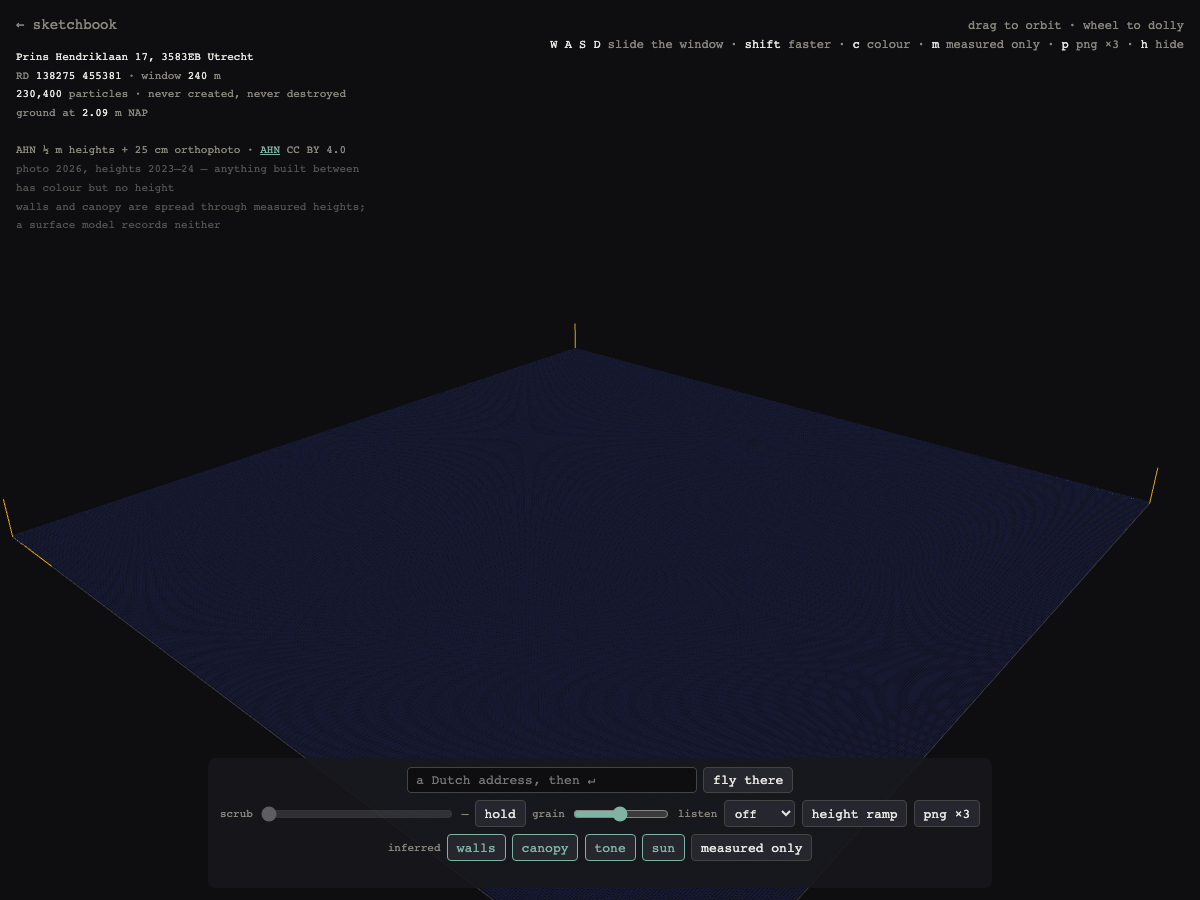
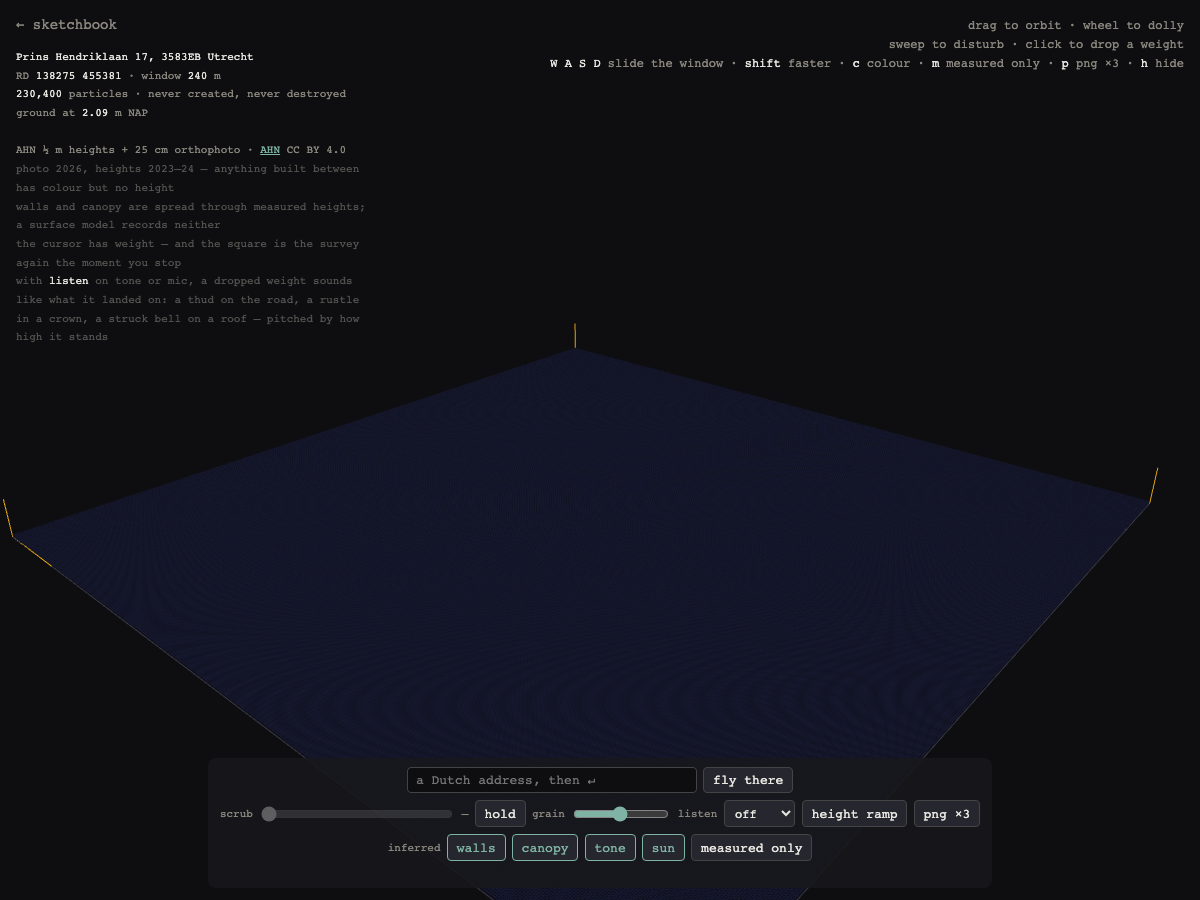
feat(elsewhere): give the music a wavelength, and the particles a face
The audio term's spatial argument was hash1(w) — every particle handed
its own random share of the band. Neighbours knowing nothing about each
other is a texture and not a motion: however loud it got, the square
fizzed uniformly and nothing ever travelled across it. It now rides
three waves instead. Rings out of the middle under the sub and the low,
and two crossing trains at shorter wavelengths over the canopy and the
roofline, so a beat arrives somewhere and moves.

The waves are anchored to the frame where touch anchors to the ground,
and the difference is the point: a furrow you cut belongs to the place
and should slide out of view as you drive away from it, but a ripple
answering the music belongs to the picture and stays centred in it.

Crests brighten. That is what makes a wave read as a wave rather than as
the same picture at a different height — the ridge outlives being seen
end-on, which from a camera this low is most of the time.

Sprites are square now. A particle stands for a cell of a half-metre
grid, and a tile tessellates where a disc leaves a gap at every corner,
so the roofs close up and start reading as surfaces. Shaded by where the
fragment sits inside its own sprite — bright along the top, falling away
down the face, border darkened so neighbours separate — which is a fake
extrusion and deliberately one: the real thing is 230,400 boxes and 2.8
million triangles for a sketch whose whole claim is that it has no
[…]

diff --git a/sketches/2026-08-elsewhere/shaders.js b/sketches/2026-08-elsewhere/shaders.js
@@ -76,13 +76,14 @@ int findLayer(vec4 tiles[13], vec2 w, out vec2 uv, out float span) {
   return best;
 }
 
-struct Sample { float y; float hag; vec3 rgb; vec3 n; float born; float found; };
+struct Sample { float y; float hag; vec3 rgb; vec3 n; float born; float found; float lift; };
 
 Sample lookup(vec4 tiles[13], vec2 w, bool useBorn, float toneLo, float toneGain) {
   Sample s;
   vec2 uv; float span;
   int layer = findLayer(tiles, w, uv, span);
   s.found = layer < 0 ? 0.0 : 1.0;
+  s.lift = 0.0;
   if (layer < 0) { s.y = 0.0; s.hag = 0.0; s.rgb = vec3(0.0); s.n = vec3(0.0, 1.0, 0.0); s.born = -1e4; return s; }
 
   vec2 texel = vec2(1.0) / vec2(textureSize(uHeight, 0).xy);
@@ -138,8 +139,44 @@ Sample lookup(vec4 tiles[13], vec2 w, bool useBorn, float toneLo, float toneGain
   float ground = 1.0 - smoothstep(0.2, 0.8, s.hag);
   float canopy = step(${CANOPY_HAG.toFixed(2)}, s.hag) * smoothstep(0.25, 0.5, rough);
   float built = smoothstep(1.0, 1.6, drop);
-  s.y += uAudio * 1.6 * (0.4 + hash1(w * 0.61))
-       * (uBands.x * ground + uBands.y * 0.35 + uBands.z * canopy + uBands.w * built);
+  //
+  // The spatial argument is the whole difference between a texture and a
+  // motion. This used to be hash1(w) alone — every particle given its own
+  // random share of the band, which means neighbours know nothing about each
+  // other and the square fizzes uniformly however loud it gets. Waves make
+  // neighbours agree, so something travels: rings out of the middle under the
+  // sub, and two crossing trains at shorter wavelengths over the canopy and
+  // the roofline. The grain stays, at a quarter of its old weight, because
+  // this is a point cloud and a perfectly smooth sheet is a different sketch.
+  //
+  // Anchored to the frame rather than to the ground — the opposite of what
+  // touch does, and on purpose. A furrow you cut belongs to the place and
+  // should slide out of view as you drive away from it; a ripple answering the
+  // music belongs to the picture and should stay centred in it.
+  vec2 rel = w - uCentre;
+  float wSub  = sin(length(rel) * 0.075 - uTime * 1.9);
+  float wMid  = sin(dot(rel, vec2(0.052, 0.031)) - uTime * 2.7);
+  float wHigh = sin(dot(rel, vec2(-0.090, 0.140)) - uTime * 4.3);
+  // 0.25 + 0.75·sin runs to −0.5, so a trough presses in as well as a crest
+  // lifting. Bouncing only upward reads as a swelling rather than as a wave.
+  //
+  // The low band's term applies to every particle whatever it is standing on,
+  // and with a wave under it that is the one that makes the whole city breathe
+  // — the class terms only move the population they name, and on a street seen
+  // end-on most of that population is behind something. It carries the most
+  // weight here for that reason.
+  //
+  // Six metres where the survey's own relief is eighteen: the bands run to
+  // about two thirds under the built-in pattern, so the peak swell is nearer
+  // four, which is a storey. At the 1.6 this replaced nothing was visible at
+  // all from the camera the sketch actually opens on.
+  float grain = 0.75 + 0.5 * hash1(w * 0.61);
+  s.lift = uAudio * 6.0 * grain
+       * ( uBands.y * 0.55   * (0.25 + 0.75 * wSub)
+         + uBands.x * ground * (0.25 + 0.75 * wSub)
+         + uBands.z * canopy * (0.25 + 0.75 * wMid)
+         + uBands.w * built  * (0.25 + 0.75 * wHigh));
+  s.y += s.lift;
   //
   // What a cell is and whether to act on it are separate questions. Gating the
   // branches directly would let a switched-off canopy fall through into the
@@ -297,6 +334,7 @@ void main() {
   float lift = uLift * arc * (1.0 - uJump) * (0.35 + 1.1 * r);
 
   vec3 tch = touchOf(w, hash1(w * 1.13 + 5.7));
+  float swell = mix(A.lift, B.lift, pick);
 
   vec3 p = vec3(w.x + stream.x - uCentre.x, y + lift, w.y + stream.y - uCentre.y) + tch;
   vec4 eye = uView * vec4(p, 1.0);
@@ -318,7 +356,11 @@ void main() {
   vCol = (uColour < 0.5 ? photo * diff
         : uColour < 1.5 ? ramp * diff
                         : ramp * (0.45 + 1.1 * plum) * diff)
-       + arc * 0.06 + max(0.0, tch.y) * 0.045;
+       + arc * 0.06 + max(0.0, tch.y) * 0.045
+       // A crest catches the light. This is what makes a wave read as a wave
+       // rather than as the same picture at a different height: the ridge is
+       // brighter than the trough, so the shape survives being seen end-on.
+       + max(0.0, swell) * 0.030;
 
   // Residency is whether a layer actually holds this ground, not anything to do
   // with the clock. Conflating the two drew nothing at all: the opening frame
@@ -338,12 +380,23 @@ in vec3 vCol;
 in float vAlive;
 out vec4 frag;
 void main() {
+  if (vAlive < 0.06) discard;
   vec2 d = gl_PointCoord - 0.5;
-  float r2 = dot(d, d);
-  if (r2 > 0.25 || vAlive < 0.06) discard;
-  // Discarding the rim rather than blending it keeps depth writes honest, so
-  // near roofs actually occlude far ones.
-  frag = vec4(vCol * (0.68 + 0.32 * (1.0 - smoothstep(0.13, 0.25, r2))), 1.0);
+  // Square, not round. What a particle stands for is a cell of a half-metre
+  // grid, and a tile tessellates where a disc leaves a gap at every corner —
+  // the surface closes up and starts reading as a surface. It is also cheaper
+  // than the disc it replaces, which discarded the whole rim.
+  //
+  // Shaded by where the fragment sits inside its own sprite: bright along the
+  // top edge, falling away down the face, with the outer border darkened so
+  // neighbours separate. That is a fake extrusion and deliberately so — the
+  // real thing is 230,400 boxes, 2.8 million triangles, and a vertex buffer
+  // this sketch does not have and does not want.
+  float face = 0.70 + 0.40 * (1.0 - gl_PointCoord.y);
+  float edge = 1.0 - 0.30 * smoothstep(0.34, 0.5, max(abs(d.x), abs(d.y)));
+  // Opaque, with no blended rim, so depth writes stay honest and a near roof
+  // actually occludes a far one.
+  frag = vec4(vCol * face * edge, 1.0);
 }`;
 
 export const FRAME_VS = `#version 300 es

diff --git a/docs/superpowers/specs/2026-08-12-elsewhere-struck-design.md b/docs/superpowers/specs/2026-08-12-elsewhere-struck-design.md
@@ -154,10 +154,16 @@ in `tone` records exactly one, with a kind from the split and a pitch on the
 scale; the voice bus is open in `tone` and shut again the moment `off` is
 chosen, and a click after that is silent.
 
-And one that proves the feature rather than its wiring: a `Listener` of its own,
-in `tone` with the pattern's own gain taken to zero, is struck once and the
-analyser bins are read before and after. If the voice reached neither the
-speakers nor the FFT they would not move. They do.
+**Not pinned by a test: that the note is audible.** It is — an isolated
+`Listener` in `tone` with the pattern's own gain at zero, struck once, took the
+analyser bins from 0 to 103, which is the voice reaching both the speakers and
+the FFT. But asserting it needs a fourth AudioContext in a suite where three
+sketches already open one each, and Chrome caps how many a renderer will hand
+out. The test that did this passed twice and then failed three times in three
+different ways, none of them about the code: a starved context, a renderer
+producing no audio at all, and its own control still ringing through the
+analyser's smoothing. A check that cries wolf is worse than a note in the spec,
+so this is the note. Verified by hand, on purpose, and written down.
 
 The rest-state guarantee is untouched — sound moves no pixels — and the existing
 weight test already pins a click returning the canvas to byte-identical.
